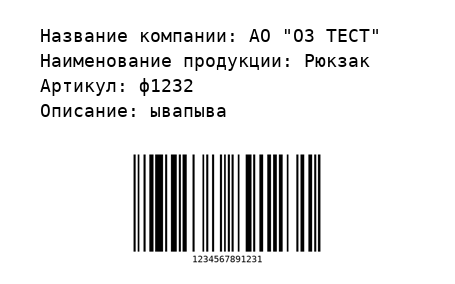
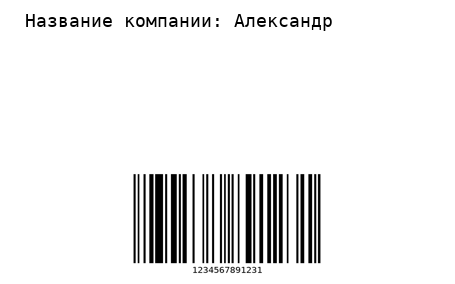
fix log and resize of barcode

diff --git a/app/static/jss.js b/app/static/jss.js
@@ -19,7 +19,7 @@ function resultHtml (view, number) {
 		var res = '<!--html код c одним блоком--> \
 					<div class="col">             \
 					    <div class="d-flex flex-column">        \
-							<div class="d-flex p-2 justify-content-center"><img class="inst" src="/static/labels/'+nameEtick+'.png" width="40%"></div>      \
+							<div class="d-flex p-2 justify-content-center"><img class="inst" src="/static/labels/'+nameEtick+'.png" width="25%"></div>      \
 							<div class="d-flex p-2 justify-content-center"><a href="/static/labels/'+nameEtick+'.png" class="btn btn-primary btn-lg active button" role="button" aria-pressed="true" download>Скачать этикетку</a></div>       \
 						</div>    \
 					</div>     \
@@ -27,7 +27,7 @@ function resultHtml (view, number) {
 					<!-- Блок для штрихкода -->      \
 					<div class="col align-self-end">      \
 						<div class="d-flex flex-column">         \
-							<div class="d-flex p-2 justify-content-center"><img class="inst" src="/static/labels/"+nameSht+".png" width="50%"></div>      \
+							<div class="d-flex p-2 justify-content-center"><img class="inst" src="/static/labels/'+nameSht+'.png" width="25%"></div>      \
 							<div class="d-flex p-2 justify-content-center"><a href="/static/labels/'+nameSht+'.png" class="btn btn-primary btn-lg active button" role="button" aria-pressed="true" download>Скачать штрикод</a></div>       \
 						</div>     \
 					</div>';

diff --git a/app/utils.py b/app/utils.py
@@ -89,11 +89,10 @@ class Etich():
         size, len_str = self._get_font_size(data)
         logger.debug('Размеры шрифта (%s, %s); Кол-во символов %s', size, len_str, len(''.join(data)))
         txt = ''.join((self._get_text_per_str(x, len_str) if len(x) >= len_str else x for x in data))
-        print(txt)
         x, y = 25, 10
         idraw.multiline_text((x,y), text=txt, fill='black', font=self._get_font(size), spacing=2, align='left')
         self._get_shtrich()
-        sht = Image.open(dir_name + self.number + '_sht.png', 'r').resize((250, 120))
+        sht = Image.open(dir_name + self.number + '_sht.png', 'r').resize((250, 110))
 
         img.paste(sht, (102, 170))
         return img

diff --git a/app/static/brython_script.py b/app/static/brython_script.py
@@ -20,7 +20,7 @@ def output_code(request):
         window.getCoords()
 
 
-@bind(document['btn_label'],'click')
+@bind(document['btn_label'], 'click')
 def generate_label(e):
     url = 'http://shtrih.karapasa.ru/generate_label'
     number = document['number'].value
@@ -36,7 +36,7 @@ def generate_label(e):
                            'name': name,
                            'sku': sku,
                            'field': field})
-        ajax.post(url, data=data, oncomlete=output_label)
+        ajax.post(url, data=data, oncomplete=output_label)
     elif test_number(number) and len(''.join(datas)) > 700:
         document['hints'] <= 'ВЫ ПРЕВЫСИЛИ ОБЩИЙ ЛИМИТ ЗНАКОВ В 700'
     else:

diff --git a/app/views.py b/app/views.py
@@ -16,8 +16,7 @@ async def gen_code(request):
         Code(num['number']).save_code()
     except Exception:
         return web.Response(text='error')
-    else:
-        return web.Response(text=f"{num['number']}")
+    return web.Response(text=f"{num['number']}")
 
 @routes.post('/generate_label')
 async def gen_etich(request):
@@ -26,5 +25,4 @@ async def gen_etich(request):
         Etich(**data).save_etich()
     except Exception:
         return web.Response(text='error')
-    else:
-        return web.Response(text=f"{data['number']}")
+    return web.Response(text=f"{data['number']}")

diff --git a/settings.py b/settings.py
@@ -16,7 +16,7 @@ logging_config = {
         }
     },
     'loggers': {
-        'combination_logger': {
+        'shtriher_logger': {
             'level': 'DEBUG',
             'handlers': ['file'],
             'propagate': False
